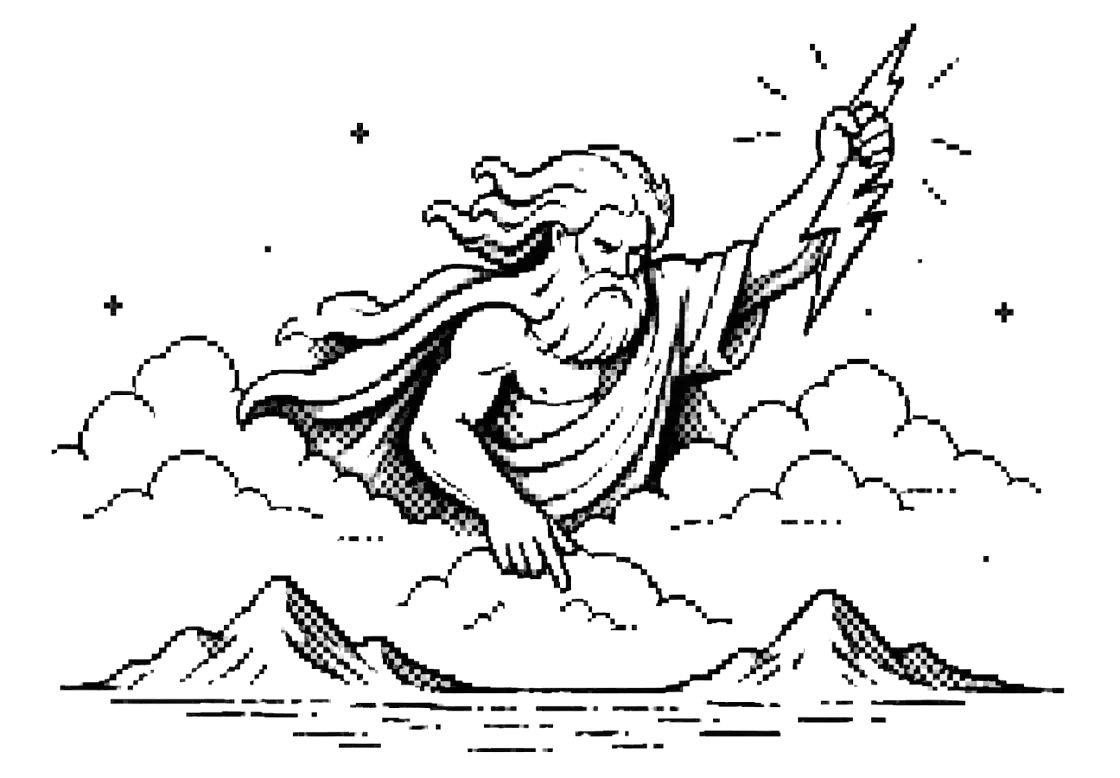
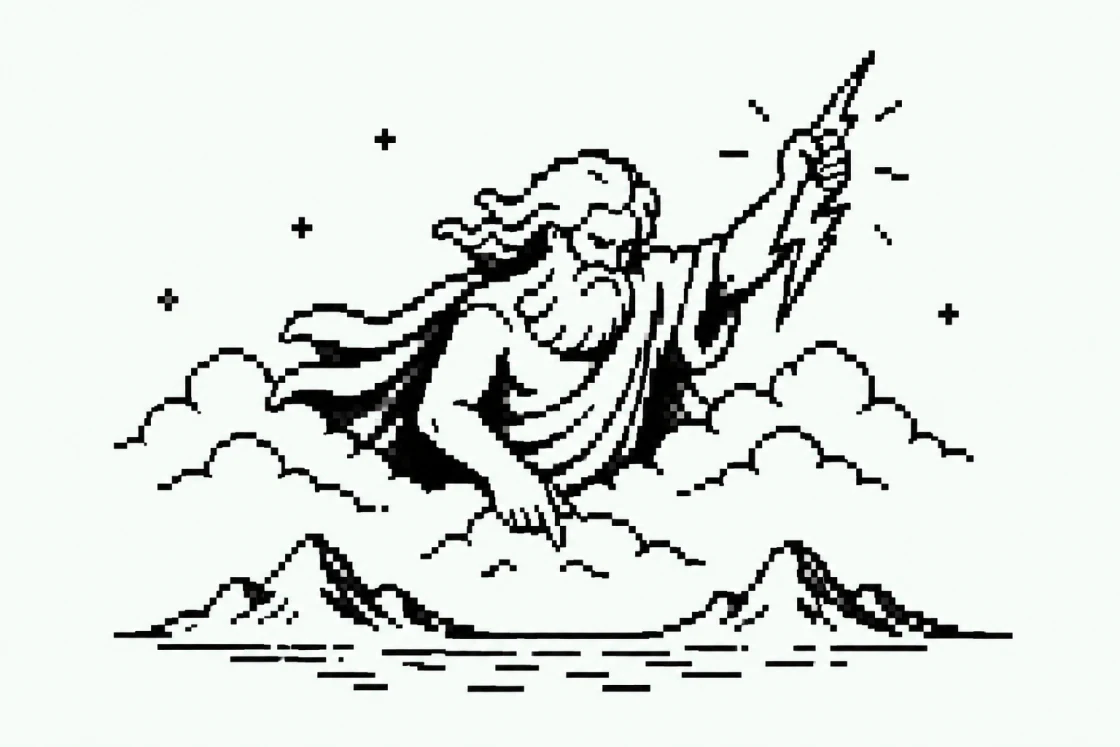
update create flow artwork

diff --git a/src/app/create/form/ProjectDetails.tsx b/src/app/create/form/ProjectDetails.tsx
@@ -12,10 +12,10 @@ export function ProjectDetails({ disabled = false }: { disabled?: boolean }) {
       <Image
         src="/assets/img/create-cutout.webp"
         width={1120}
-        height={778}
+        height={747}
         sizes="(min-width: 640px) 560px, calc(100vw - 2rem)"
         className="mx-auto mb-10 h-auto w-full max-w-[560px] md:col-span-3"
-        alt="A figure shaping lightning above the clouds"
+        alt="A figure holding a lightning bolt above the clouds"
       />
       <h1 className="mb-16 text-2xl md:col-span-3 font-semibold">Create a revnet</h1>
       <div className="md:col-span-1">
